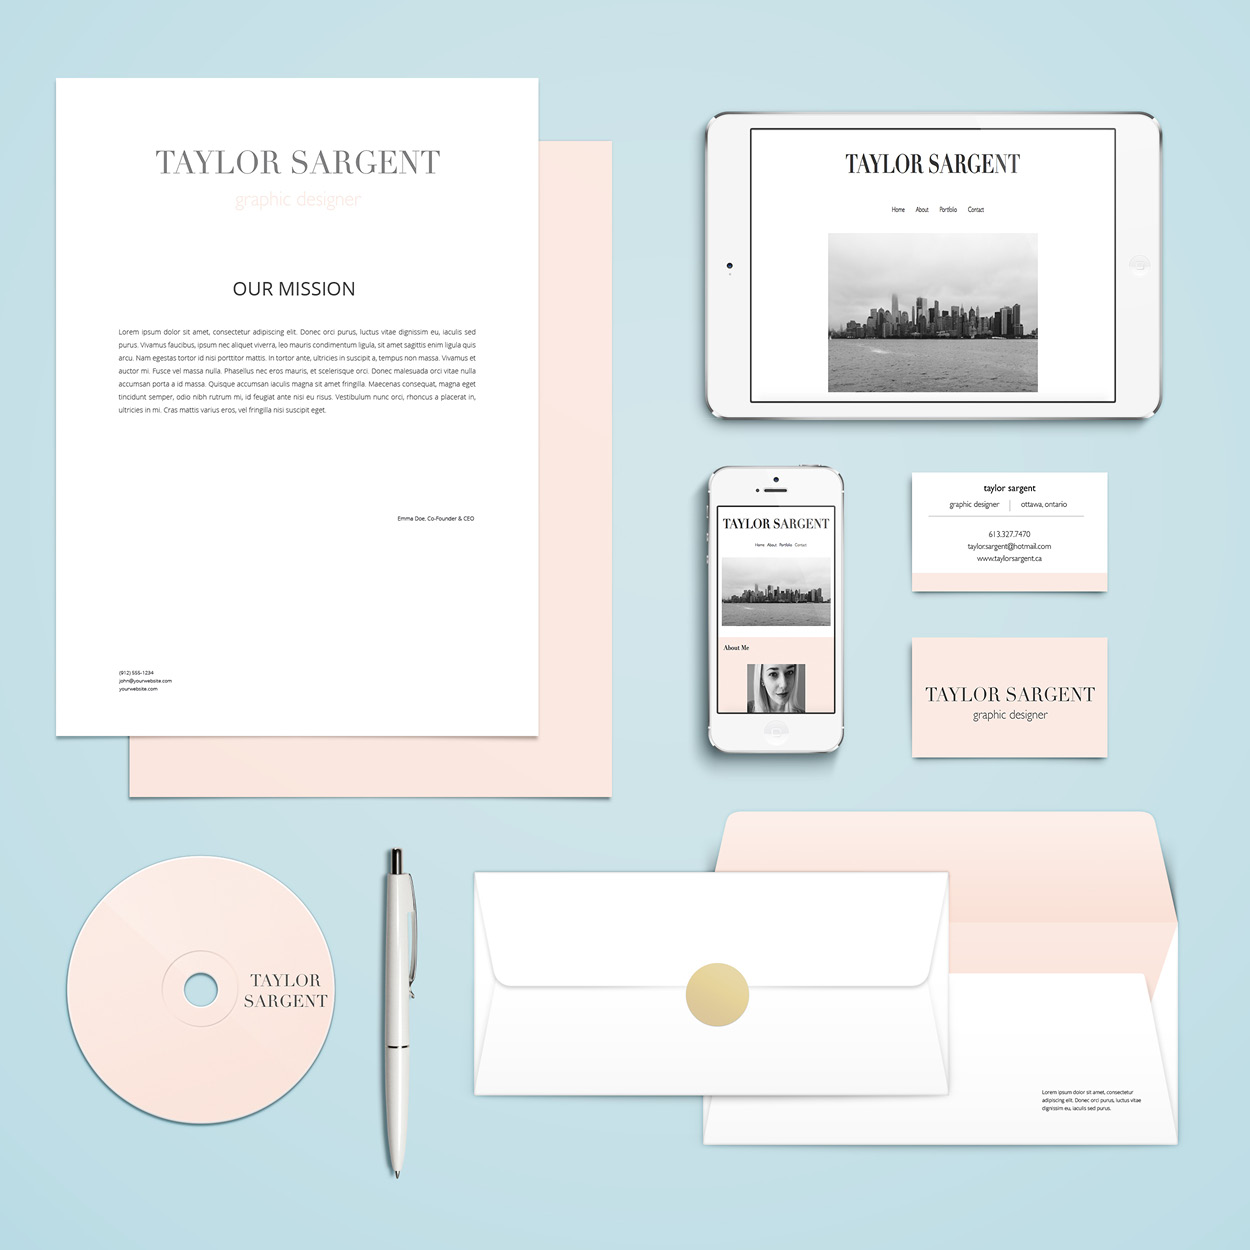
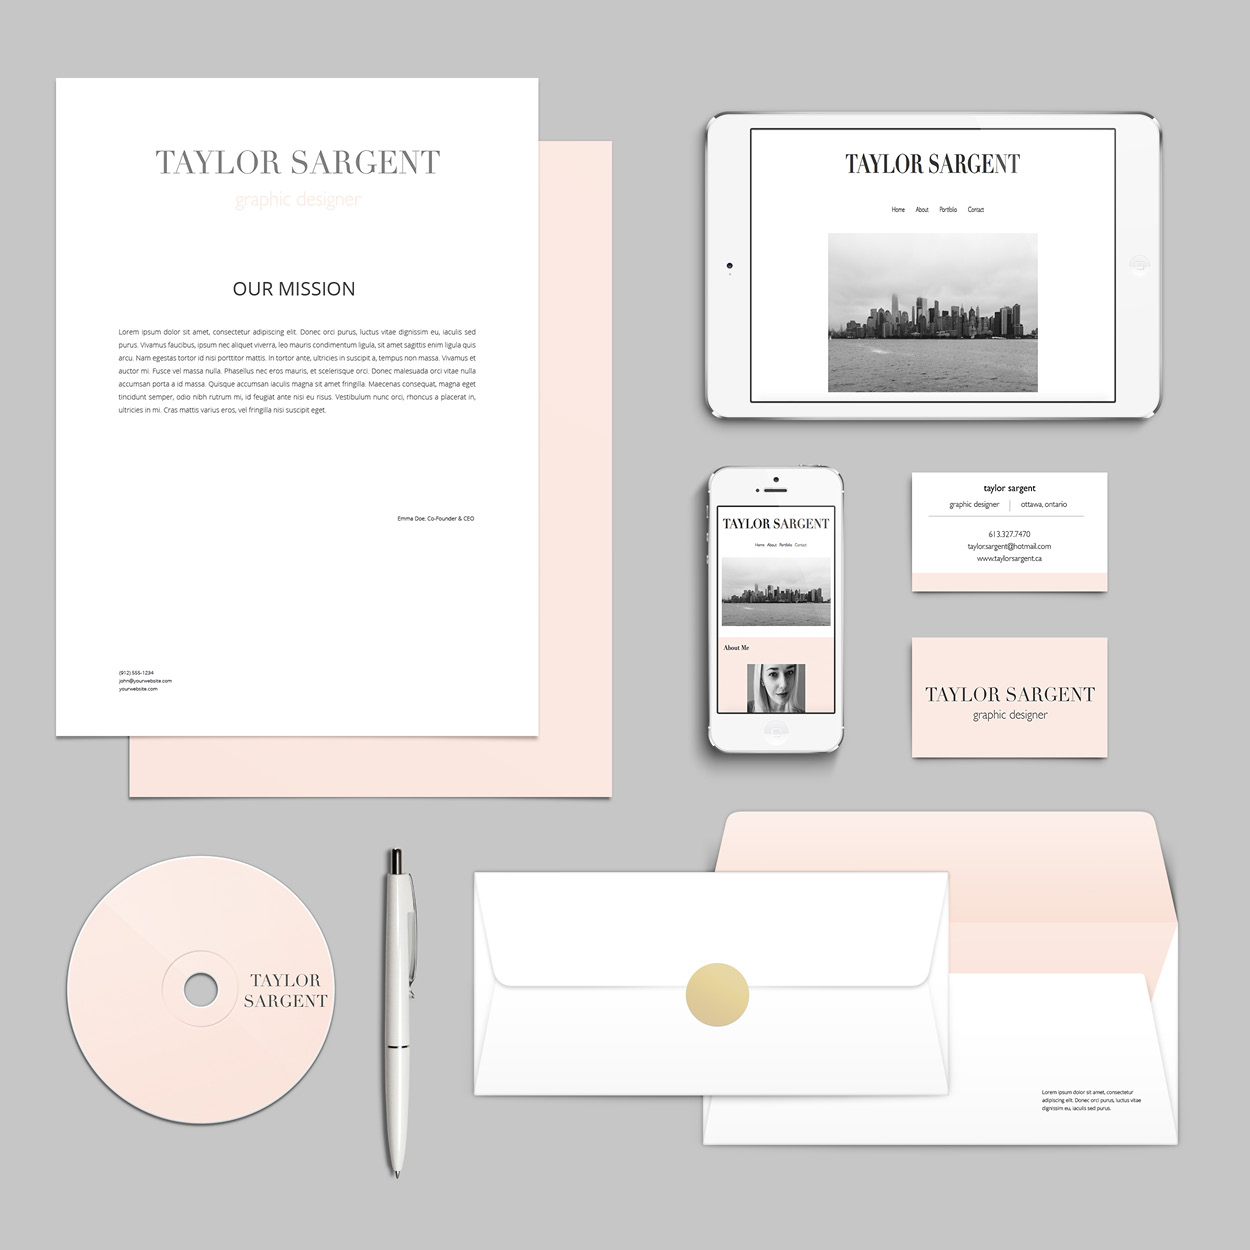
updated the images and changed the background colours

diff --git a/css/main.css b/css/main.css
@@ -39,12 +39,13 @@ h2 {
 }
 
 p {
-  font-family: Gill Sans;
+  font-family: Gill Sans, sans-serif;
 }
 
 ul {
   list-style-type: none;
   text-align: center;
+  padding-left: 0;
 }
 
 li {
